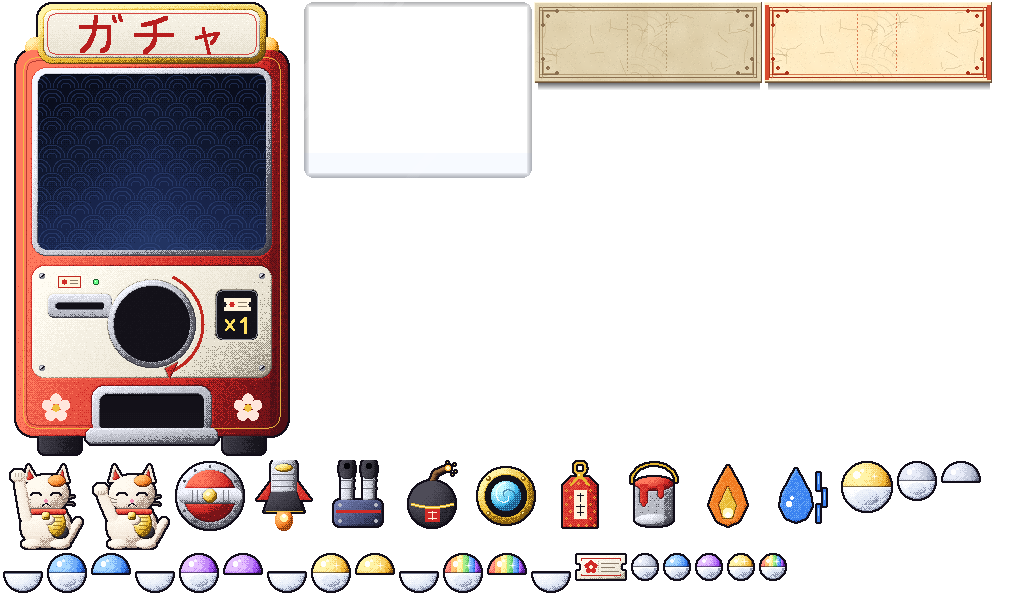
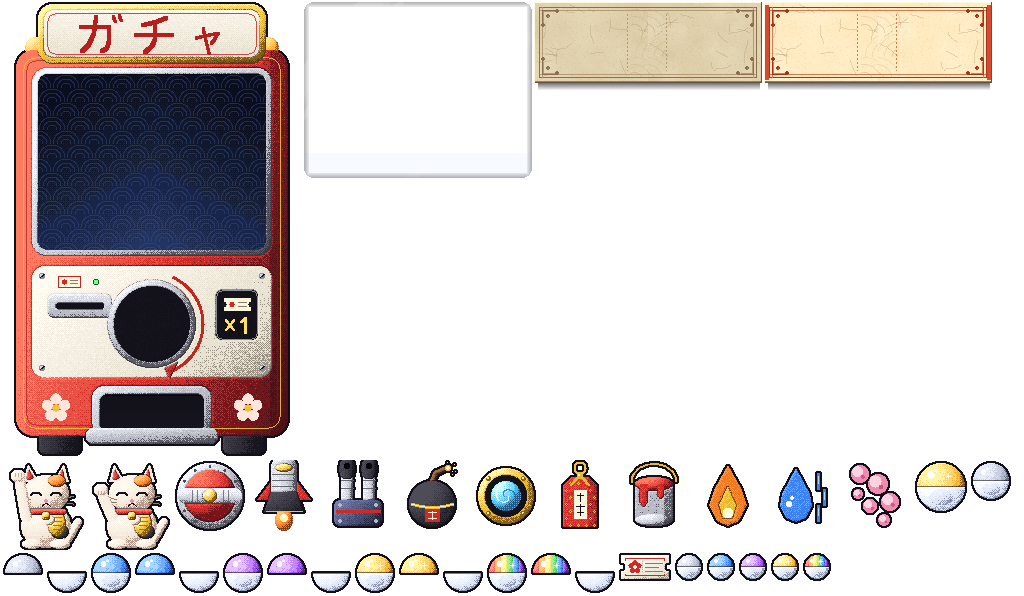
Gacha: the petals the ship scattered in Kyoto become a wake out of the machine, twelve kinds of it (petals, maple leaves, drops, embers, neon, gold dust, paper cranes...)

Changed region(s): [[0.0, 0.906, 0.8125, 0.9966], [0.8125, 0.755, 1.0, 0.906]]

diff --git a/src/data/gacha.js b/src/data/gacha.js
@@ -21,7 +21,7 @@ export const PITY = { every: 10, min: 'SR' };
 export const SLOTS = ['engine', 'gun', 'bomb', 'core', 'omamori'];
 
 /** What changes only the looks, one of each worn at a time on any hull. */
-export const LOOKS = ['paint', 'flame', 'dye'];
+export const LOOKS = ['paint', 'flame', 'dye', 'wake'];
 
 // A part's `fx` is applied to the ship being put together: `set` (fields taken as they are), then `add`, then
 // `mul`; `bombMul` multiplies the bomb's damage. `line`: parts of one line (the same upgrade in five rarities)
@@ -219,6 +219,20 @@ export const ITEMS = [
   { id: 'dye_lime', kind: 'dye', rarity: 'R', name: 'BARWNIK: LIMONKA', info: 'KOLOR TWOICH POCISKÓW', tint: 0xd8f060 },
   { id: 'dye_apricot', kind: 'dye', rarity: 'R', name: 'BARWNIK: MORELA', info: 'KOLOR TWOICH POCISKÓW', tint: 0xffc8a0 },
   { id: 'dye_ice', kind: 'dye', rarity: 'R', name: 'BARWNIK: LÓD', info: 'KOLOR TWOICH POCISKÓW', tint: 0xd0f4ff },
+  // ---- wakes: what the ship scatters behind it when it moves (frames of the shared sprites; tints, a scale,
+  // gravity `g`, growth, alpha, life in s and spin as the particle takes them)
+  { id: 'wake_sakura', kind: 'wake', rarity: 'N', name: 'ŚLAD: PŁATKI SAKURY', info: 'SYPIE SIĘ ZA STATKIEM', wake: { frames: ['petal_0', 'petal_1', 'petal_2', 'petal_3'] } },
+  { id: 'wake_momiji', kind: 'wake', rarity: 'N', name: 'ŚLAD: LIŚCIE KLONU', info: 'SYPIE SIĘ ZA STATKIEM', wake: { frames: ['momiji_0', 'momiji_1', 'momiji_2', 'momiji_3'] } },
+  { id: 'wake_drops', kind: 'wake', rarity: 'N', name: 'ŚLAD: KROPLE', info: 'SYPIE SIĘ ZA STATKIEM', wake: { frames: ['drop_0', 'drop_1'], g: 30, spin: 0 } },
+  { id: 'wake_snow', kind: 'wake', rarity: 'R', name: 'ŚLAD: LODOWE ODŁAMKI', info: 'SYPIE SIĘ ZA STATKIEM', wake: { frames: ['shard_0', 'shard_1', 'shard_2'] } },
+  { id: 'wake_embers', kind: 'wake', rarity: 'R', name: 'ŚLAD: ŻAR', info: 'SYPIE SIĘ ZA STATKIEM', wake: { frames: ['ember_0', 'ember_1'], g: -10, spin: 0 } },
+  { id: 'wake_sparks', kind: 'wake', rarity: 'R', name: 'ŚLAD: ISKRY', info: 'SYPIE SIĘ ZA STATKIEM', wake: { frames: ['spark_0', 'spark_1', 'spark_2'], life: 0.3, spin: 0 } },
+  { id: 'wake_neon', kind: 'wake', rarity: 'R', name: 'ŚLAD: NEONOWE ISKRY', info: 'SYPIE SIĘ ZA STATKIEM', wake: { frames: ['dot_1', 'dot_2'], tints: [0xff4fb0, 0x4fe8ff, 0xffe04f, 0x9a7aff], spin: 0 } },
+  { id: 'wake_steam', kind: 'wake', rarity: 'R', name: 'ŚLAD: PARA', info: 'SYPIE SIĘ ZA STATKIEM', wake: { frames: ['wisp_s_0', 'wisp_s_1'], g: -14, grow: 0.9, alpha: 0.5, spin: 0 } },
+  { id: 'wake_gold', kind: 'wake', rarity: 'SR', name: 'ŚLAD: ZŁOTY PYŁ', info: 'SYPIE SIĘ ZA STATKIEM', wake: { frames: ['dot_1', 'dot_2'], tints: [0xffd040, 0xfff4a8, 0xf0a020], life: 0.7, spin: 0 } },
+  { id: 'wake_foxfire', kind: 'wake', rarity: 'SR', name: 'ŚLAD: LISIE OGNIKI', info: 'SYPIE SIĘ ZA STATKIEM', wake: { frames: ['kitsunebi_0', 'kitsunebi_1'], g: -24, scale: 0.5, spin: 0 } },
+  { id: 'wake_rainbow', kind: 'wake', rarity: 'SSR', name: 'ŚLAD: TĘCZOWY PYŁ', info: 'SYPIE SIĘ ZA STATKIEM', wake: { frames: ['dot_2'], tints: [0xff5a5a, 0xffa040, 0xffe04f, 0x6ae486, 0x4fc8ff, 0xb070f0], life: 0.8, spin: 0 } },
+  { id: 'wake_cranes', kind: 'wake', rarity: 'SSR', name: 'ŚLAD: PAPIEROWE ŻURAWIE', info: 'SYPIE SIĘ ZA STATKIEM', wake: { frames: ['orizuru_0', 'orizuru_1', 'orizuru_2'], scale: 0.45, life: 0.8, spin: 0 } },
 ];
 
 export const ITEM = Object.fromEntries(ITEMS.map((it) => [it.id, it]));

diff --git a/src/game/Parallax.js b/src/game/Parallax.js
@@ -278,7 +278,6 @@ export class Parallax {
     this.near.sweep();
     let j = 0;
     const isLeaf = this.nearKind === 'sakura' || this.nearKind === 'momiji';
-    const leafPrefix = this.nearKind === 'momiji' ? 'momiji_' : 'petal_';
     const pl = isLeaf && this.scene.player?.alive ? this.scene.player : null;
     for (const b of this.bitsLive) {
       if (pl && Math.abs(b.x - pl.x) < 46 && Math.abs(b.y - pl.y) < 46) {
@@ -303,31 +302,7 @@ export class Parallax {
       } else this.bitsLive[j++] = b;
     }
     this.bitsLive.length = j;
-    // Kyoto only: a light wake during deliberate maneuvers. Ambient leaves still part above.
-    if (pl && !pl.entering && this.nearKind === 'sakura') {
-      const spd = Math.hypot(pl.vx || 0, pl.vy || 0);
-      const rate = 8 + Math.min(36, spd * 0.32 + Math.abs(pl.bank) * 20);
-      // Previously each successful roll emitted TWO petals. One at 0.8 of the old
-      // probability retains 40% of the count (60% less), even on slower frames.
-      const chance = Math.min(1, dt * rate) * 2 * 0.4;
-      if (spd >= 32 && Math.random() < chance) {
-        const side = Math.random() < 0.5 ? -1 : 1;
-        const wp = this.scene.fx.part(
-          this.scene.fx.parts,
-          `${leafPrefix}${Math.floor(Math.random() * 4)}`,
-          pl.x + side * (6 + Math.random() * 4),
-          pl.y + 2,
-        );
-        wp.vx = side * (40 + Math.random() * 28) - (pl.vx || 0) * 0.15;
-        wp.vy = 20 + Math.random() * 22;
-        wp.drag = 2;
-        wp.g = 12;
-        wp.spin = side * (4 + Math.random() * 4);
-        wp.life = wp.max = 0.4 + Math.random() * 0.2;
-        wp.a0 = 0.65;
-        wp.setScale(1);
-      }
-    }
+    // (the petals the ship used to scatter in Kyoto are a wake out of the gachapon now: see Player)
   }
 
   /** Move a drifting bit (sprite or bob) along; true once it has left the screen. */

diff --git a/src/game/Player.js b/src/game/Player.js
@@ -277,6 +277,27 @@ export class Player {
       p.a0 = blink ? 0.3 : 0.85;
       p.setTint(Math.random() < 0.5 ? 0xffb050 : 0xfff0a0);
     }
+    // a wake out of the gachapon: scattered to the sides while the ship is moving (the faster, the more)
+    const wake = this.ship.look?.wake;
+    if (wake && this.alive && this.entering <= 0) {
+      const spd = Math.hypot(this.vx || 0, this.vy || 0);
+      const rate = 8 + Math.min(36, spd * 0.32 + Math.abs(this.bank) * 20);
+      if (spd >= 32 && Math.random() < Math.min(1, dt * rate) * 0.8) {
+        const fx = this.scene.fx;
+        const side = Math.random() < 0.5 ? -1 : 1;
+        const wp = fx.part(fx.parts, wake.frames[Math.floor(Math.random() * wake.frames.length)], this.x + side * (6 + Math.random() * 4), this.y + 2);
+        wp.vx = side * (40 + Math.random() * 28) - (this.vx || 0) * 0.15;
+        wp.vy = 20 + Math.random() * 22;
+        wp.drag = 2;
+        wp.g = wake.g ?? 12;
+        wp.grow = wake.grow ?? 0;
+        wp.spin = (wake.spin ?? 1) * side * (4 + Math.random() * 4);
+        wp.life = wp.max = (wake.life ?? 0.5) * (0.8 + Math.random() * 0.4);
+        wp.a0 = wake.alpha ?? 0.65;
+        wp.setScale((wake.scale ?? 1) * wp.base);
+        if (wake.tints) wp.setTint(wake.tints[Math.floor(Math.random() * wake.tints.length)]);
+      }
+    }
     this.sprite.setAlpha(blink ? 0.35 : 1);
     this.flame.setAlpha(blink ? 0.35 : 1);
     const hotGlow = this.alive && this.jam <= 0 && this.heat >= HEAT.boostAt;

diff --git a/src/game/Gacha.js b/src/game/Gacha.js
@@ -15,7 +15,7 @@ const MX = (W - MACHINE.w * FINE) / 2; // the machine's left edge
 const SHOWN = 30; // capsules under the glass at most
 const BALL = (BALL_FRAME * FINE) / 2 - 0.4; // their radius, in game units (they overlap a touch: no gaps between them)
 const RAINBOW = [0xff5a5a, 0xffb040, 0xfff060, 0x6ae486, 0x5cacf2, 0xb070f0];
-const KIND = { hull: 'KADŁUB', engine: 'SILNIK', gun: 'DZIAŁO', bomb: 'BOMBA', core: 'RDZEŃ', omamori: 'OMAMORI', paint: 'MALOWANIE', flame: 'PŁOMIEŃ', dye: 'BARWNIK' };
+const KIND = { hull: 'KADŁUB', engine: 'SILNIK', gun: 'DZIAŁO', bomb: 'BOMBA', core: 'RDZEŃ', omamori: 'OMAMORI', paint: 'MALOWANIE', flame: 'PŁOMIEŃ', dye: 'BARWNIK', wake: 'ŚLAD' };
 // how long each step of a draw takes, s (a draw of ten runs them at half the time)
 const TIME = { ticket: 0.55, crank: 1.0, shake: 0.85, open: 0.4 };
 const ease = (k) => k * k * (3 - 2 * k);

diff --git a/src/game/Loadout.js b/src/game/Loadout.js
@@ -163,7 +163,7 @@ export function buildShip(state) {
   }
   // the looks (see shipSkin.js): the paint's colours, the flame, the shots' tint
   const look = state.look ?? {};
-  ship.look = { paint: ITEM[look.paint]?.colors ?? null, flame: ITEM[look.flame]?.flame ?? null, dye: ITEM[look.dye]?.tint ?? null };
+  ship.look = { paint: ITEM[look.paint]?.colors ?? null, flame: ITEM[look.flame]?.flame ?? null, dye: ITEM[look.dye]?.tint ?? null, wake: ITEM[look.wake]?.wake ?? null };
   ship.perk = fitted.filter((it) => it.kind === 'core').map((it) => it.name).join(' + ');
   // pips out of 3 for the summary: speed, firepower
   ship.stats = [ship.speed < 95 ? 1 : ship.speed < 130 ? 2 : 3, ship.damage < 1 ? 1 : ship.damage < 1.2 ? 2 : 3];

diff --git a/src/game/Hangar.js b/src/game/Hangar.js
@@ -14,7 +14,7 @@ const W = VIEW.width;
 const LINE = 12; // a row of the list
 const BOX = 26; // a slot
 const PER_ROW = 5;
-const SLOT_NAME = { hull: 'KADŁUB', engine: 'SILNIK', gun: 'DZIAŁO', bomb: 'BOMBA', core: 'RDZEŃ', omamori: 'OMAMORI', paint: 'MALOWANIE', flame: 'PŁOMIEŃ', dye: 'BARWNIK POCISKÓW' };
+const SLOT_NAME = { hull: 'KADŁUB', engine: 'SILNIK', gun: 'DZIAŁO', bomb: 'BOMBA', core: 'RDZEŃ', omamori: 'OMAMORI', paint: 'MALOWANIE', flame: 'PŁOMIEŃ', dye: 'BARWNIK POCISKÓW', wake: 'ŚLAD ZA STATKIEM' };
 const TABS = [{ id: 'parts', name: 'CZĘŚCI', x: 50 }, { id: 'look', name: 'WYGLĄD', x: 130 }];
 const TAB_Y = 95;
 const STATS = [

diff --git a/plan-gacha.md b/plan-gacha.md
@@ -192,7 +192,7 @@ Każda faza kończy się grywalnym stanem i osobnym commitem.
 2. **Kupony (gotowe).** Przyznawanie po minibossie, bossie i spotkaniu, napis w grze, wiersz w wynikach.
 3. **Ekran GACHA (gotowe, bez skrótu „załóż teraz”: dojdzie z hangarem).** Grafika automatu, animacja, dźwięk.
 4. **Ekran HANGAR i mody (gotowe; zostały: skrót „załóż teraz” po losowaniu, 3 zapisane zestawy, pas próbny).** Mody z sekcji 4.7 działające w grze, kadłub premium HOUOU (UR: silnik 1, działa 2, bomba 1, rdzenie 2, omamori 3), sloty trzymają swoje miejsce (pusty slot zostaje pusty).
-5. **Kosmetyka, fala 1 (5a gotowe: 60 malowań, 20 płomieni, 12 barwników, zakładka WYGLĄD w hangarze; zostało 5b: skórki pocisków gracza).** Malowania, pociski gracza, barwniki, płomienie. Malowanie to cztery kolory nakładane na warstwy kadłuba (bez wzorów); wzory i animacje dojdą z fazą 7.
+5. **Kosmetyka, fala 1 (5a gotowe: 60 malowań, 20 płomieni, 12 barwników, zakładka WYGLĄD w hangarze; zostało 5b: skórki pocisków gracza). Doszło 12 śladów za statkiem (płatki sakury wycięte z Kioto, liście klonu, krople, żar, neon, złoty pył, żurawie itd.).** Malowania, pociski gracza, barwniki, płomienie. Malowanie to cztery kolory nakładane na warstwy kadłuba (bez wzorów); wzory i animacje dojdą z fazą 7.
 6. **Kosmetyka, fala 2.** Naklejki, wrogie pociski, wybuchy, wygląd bomby, towarzysze, znaczniki, dźwięki, karty, tytuły.
 7. **Animacje premium.** Sekcja 4.5.
 8. **Strojenie i testy.** Liczby modów, tempo zdobywania, test przeglądarkowy obu ekranów, tłumaczenia PL i EN wszystkich nazw.
